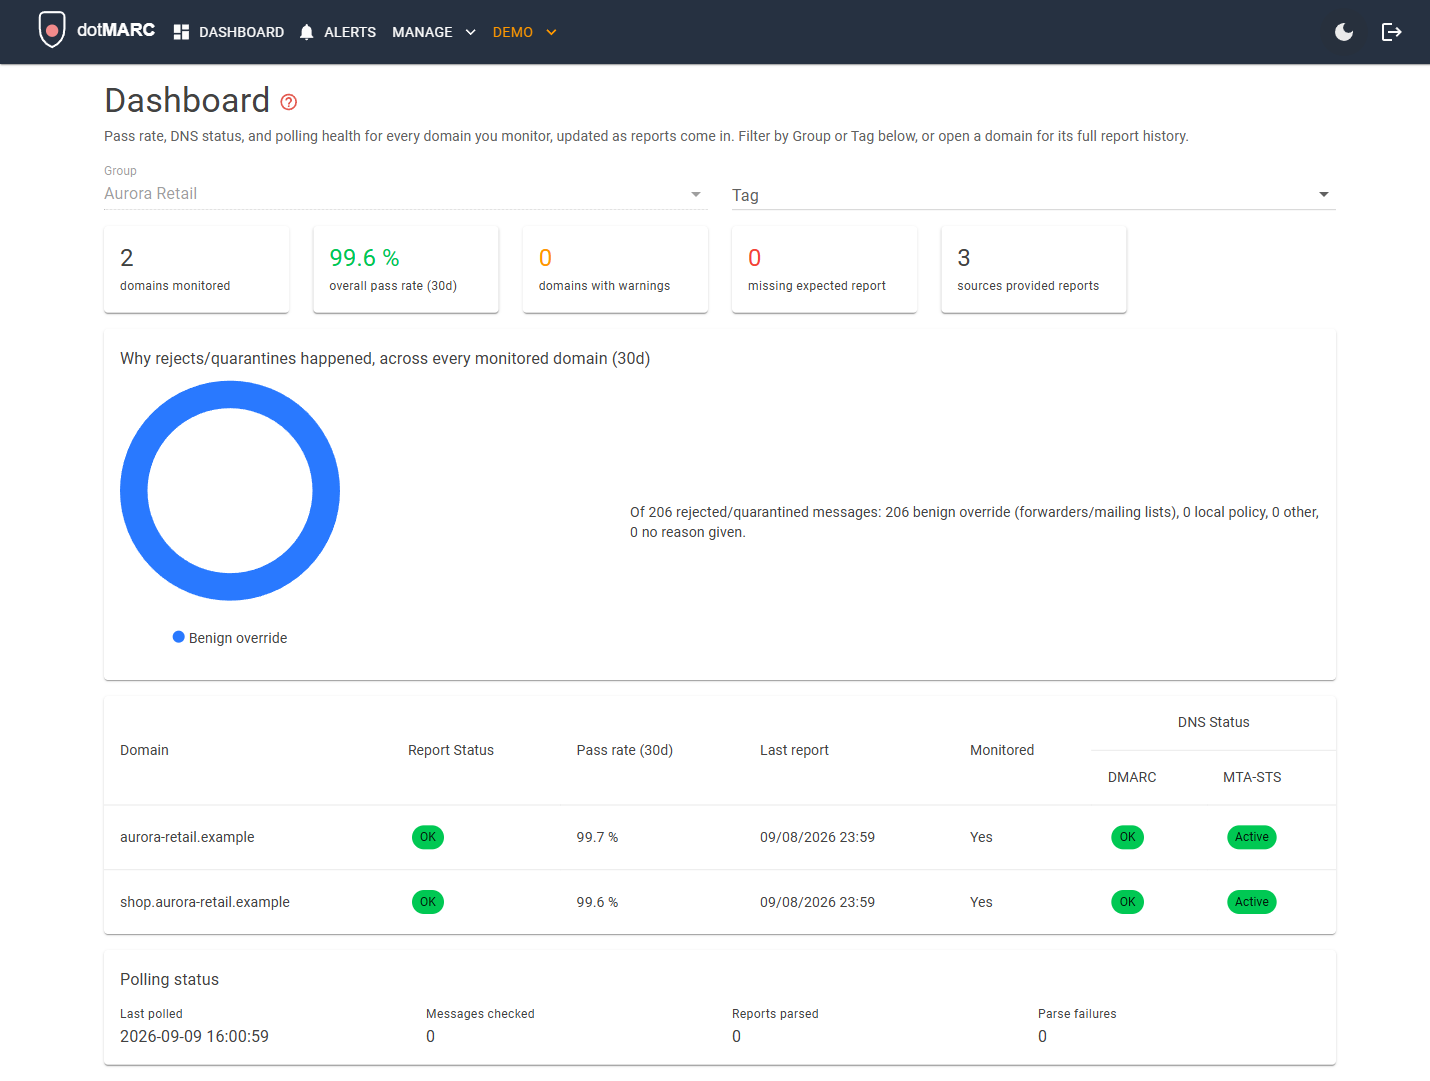
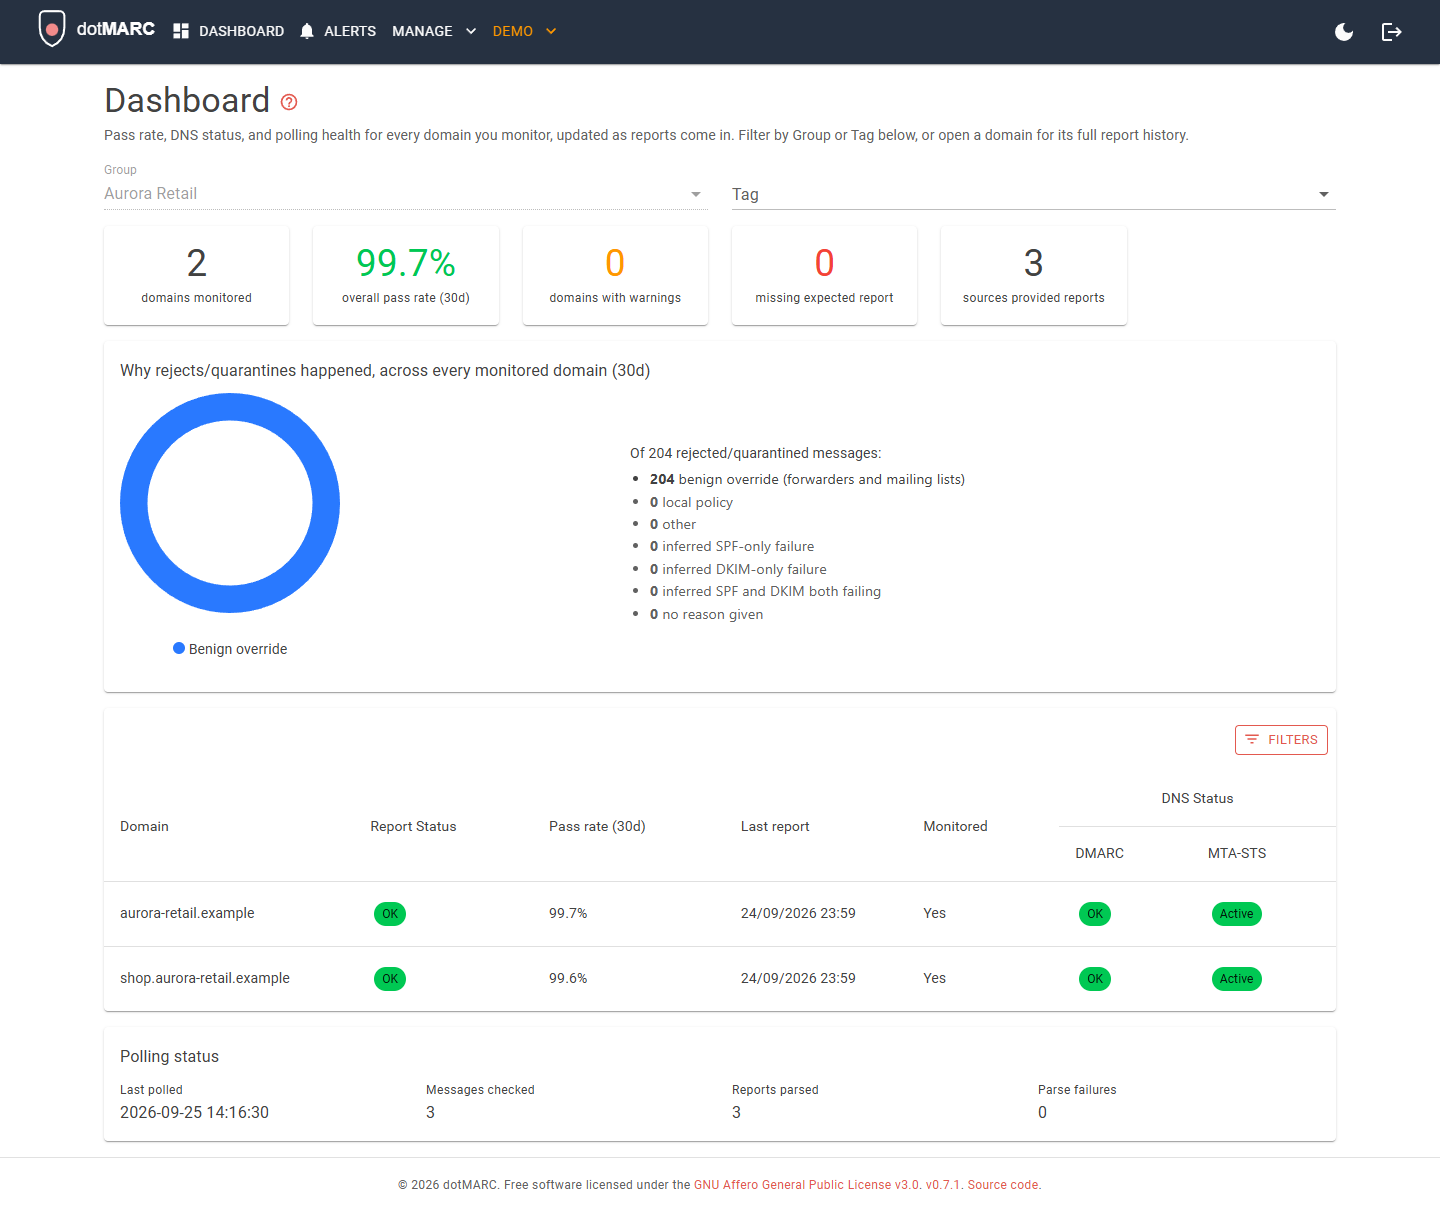
Split demo failures into SPF-only and DKIM-only, and automate the website screenshots
The demo data now includes senders that fail only SPF or only DKIM, so the
dashboard's reason breakdown shows every bucket. A Playwright script
(website/scripts/capture-screenshots.mjs) captures all the website
screenshots in both themes from a demo instance, and an Update Screenshots
workflow runs it in GitHub and opens a pull request with the result.

diff --git a/src/DotMarc/Demo/DemoDataGenerator.cs b/src/DotMarc/Demo/DemoDataGenerator.cs
@@ -131,6 +131,11 @@ public static class DemoDataGenerator
                 status: DmarcCheckStatus.Ok, detail: null, daysOfHistory: HistoryDays,
                 dmarcAuthorizationCheckStatus: DmarcAuthorizationCheckStatus.Missing,
                 dmarcAuthorizationCheckDetail: "No TXT record found at driftwood-media.example._report._dmarc.nova-msp.example",
+                // An "SPF only" failure: a newsletter tool sends as this domain, its SPF check fails, and the
+                // report says nothing at all about DKIM (no signature) - the one shape where a single mechanism
+                // is cleanly to blame, so the breakdown buckets it as SPF alone rather than both.
+                forcedFailingDisposition: DispositionResult.Quarantine,
+                failingRecordAuthDetails: [new(DmarcAuthMechanism.Spf, "mail.bulk-newsletter-tool.example", DmarcMechanismResult.Fail)],
                 dnsProvider: DetectedDnsProvider.Namecheap, dnsNameservers: DnsNameserverSamples[DetectedDnsProvider.Namecheap]),
             BuildDomain(random, nowUtc, sortOrder: 6, name: "driftwood-events.example", groupName: null,
                 orgs: ["google.com"], passRateForDay: _ => 0.97,
@@ -180,6 +185,9 @@ public static class DemoDataGenerator
             BuildDomain(random, nowUtc, sortOrder: 13, name: "ironclad-parts.example", groupName: "Ironclad Manufacturing",
                 orgs: ["outlook.com"], passRateForDay: _ => 0.93,
                 status: DmarcCheckStatus.Ok, detail: null, daysOfHistory: HistoryDays,
+                // A second "DKIM only" failure, from a CRM mailer whose signature fails.
+                forcedFailingDisposition: DispositionResult.Quarantine,
+                failingRecordAuthDetails: [new(DmarcAuthMechanism.Dkim, "crm-mailer.example", DmarcMechanismResult.Fail, Selector: "s2")],
                 dnsProvider: DetectedDnsProvider.AmazonRoute53, dnsNameservers: DnsNameserverSamples[DetectedDnsProvider.AmazonRoute53]),
             BuildDomain(random, nowUtc, sortOrder: 14, name: "willowmere-retail.example", groupName: "Willowmere Retail",
                 orgs: ["google.com", "yahoo.com"], passRateForDay: _ => 0.98,
@@ -192,6 +200,10 @@ public static class DemoDataGenerator
             BuildDomain(random, nowUtc, sortOrder: 16, name: "cdn.willowmere-retail.example", groupName: "Willowmere Retail",
                 orgs: ["google.com"], passRateForDay: _ => 0.9,
                 status: DmarcCheckStatus.Ok, detail: null, daysOfHistory: HistoryDays,
+                // A "DKIM only" failure: a billing platform signs its mail but the signature fails (a stale or
+                // rotated key), and the report has no SPF result for it at all.
+                forcedFailingDisposition: DispositionResult.Quarantine,
+                failingRecordAuthDetails: [new(DmarcAuthMechanism.Dkim, "billing-platform.example", DmarcMechanismResult.Fail, Selector: "k1")],
                 dnsProvider: DetectedDnsProvider.DigitalOcean, dnsNameservers: DnsNameserverSamples[DetectedDnsProvider.DigitalOcean]),
             BuildDomain(random, nowUtc, sortOrder: 17, name: "palmwood-logistics.example", groupName: "Palmwood Logistics",
                 orgs: ["google.com", "outlook.com"], passRateForDay: _ => 0.88,
@@ -208,6 +220,9 @@ public static class DemoDataGenerator
             BuildDomain(random, nowUtc, sortOrder: 19, name: "brackenfield-media.example", groupName: "Brackenfield Media",
                 orgs: ["yahoo.com", "protonmail.com"], passRateForDay: _ => 0.91,
                 status: DmarcCheckStatus.Ok, detail: null, daysOfHistory: HistoryDays,
+                // A second "SPF only" failure, from a different kind of sender (an event ticketing platform).
+                forcedFailingDisposition: DispositionResult.Quarantine,
+                failingRecordAuthDetails: [new(DmarcAuthMechanism.Spf, "bounce.event-ticketing.example", DmarcMechanismResult.Fail)],
                 dnsProvider: DetectedDnsProvider.Gandi, dnsNameservers: DnsNameserverSamples[DetectedDnsProvider.Gandi]),
             BuildDomain(random, nowUtc, sortOrder: 20, name: "brackenfield-studio.example", groupName: "Brackenfield Media",
                 orgs: ["google.com"], passRateForDay: _ => 0.97,

diff --git a/test/DotMarc.Tests/Demo/DemoDataGeneratorTests.cs b/test/DotMarc.Tests/Demo/DemoDataGeneratorTests.cs
@@ -406,6 +406,52 @@ public sealed class DemoDataGeneratorTests
         Assert.Equal(0, breakdown.NoReasonGiven);
     }
 
+    [Theory]
+    [InlineData("driftwood-media.example")]
+    [InlineData("brackenfield-media.example")]
+    public void SpfOnlyDomains_QuarantinedVolume_IsBucketedAsInferredSpfFailure(string domainName)
+    {
+        var domain = Generate().Domains.Single(d => d.Name == domainName);
+
+        var breakdown = DomainStatistics.GetReasonBreakdown(ToReports(domain));
+
+        Assert.True(breakdown.Total > 0, "expected some quarantined volume to demonstrate the reason-breakdown panel");
+        Assert.Equal(breakdown.Total, breakdown.InferredSpfFailure);
+        Assert.Equal(0, breakdown.InferredDkimFailure);
+        Assert.Equal(0, breakdown.InferredBothFailure);
+    }
+
+    [Theory]
+    [InlineData("cdn.willowmere-retail.example")]
+    [InlineData("ironclad-parts.example")]
+    public void DkimOnlyDomains_QuarantinedVolume_IsBucketedAsInferredDkimFailure(string domainName)
+    {
+        var domain = Generate().Domains.Single(d => d.Name == domainName);
+
+        var breakdown = DomainStatistics.GetReasonBreakdown(ToReports(domain));
+
+        Assert.True(breakdown.Total > 0, "expected some quarantined volume to demonstrate the reason-breakdown panel");
+        Assert.Equal(breakdown.Total, breakdown.InferredDkimFailure);
+        Assert.Equal(0, breakdown.InferredSpfFailure);
+        Assert.Equal(0, breakdown.InferredBothFailure);
+    }
+
+    [Fact]
+    public void AcrossAllDomains_EveryReasonBucketIsRepresented_SoTheDashboardBreakdownShowsTheFullRange()
+    {
+        var dataset = Generate();
+
+        var breakdowns = dataset.Domains.Select(domain => DomainStatistics.GetReasonBreakdown(ToReports(domain))).ToList();
+
+        Assert.Contains(breakdowns, breakdown => breakdown.BenignOverride > 0);
+        Assert.Contains(breakdowns, breakdown => breakdown.LocalPolicy > 0);
+        Assert.Contains(breakdowns, breakdown => breakdown.Other > 0);
+        Assert.Contains(breakdowns, breakdown => breakdown.InferredSpfFailure > 0);
+        Assert.Contains(breakdowns, breakdown => breakdown.InferredDkimFailure > 0);
+        Assert.Contains(breakdowns, breakdown => breakdown.InferredBothFailure > 0);
+        Assert.Contains(breakdowns, breakdown => breakdown.NoReasonGiven > 0);
+    }
+
     [Fact]
     public void PalmwoodLogistics_QuarantinedVolume_IsBucketedAsNoReasonGiven()
     {
